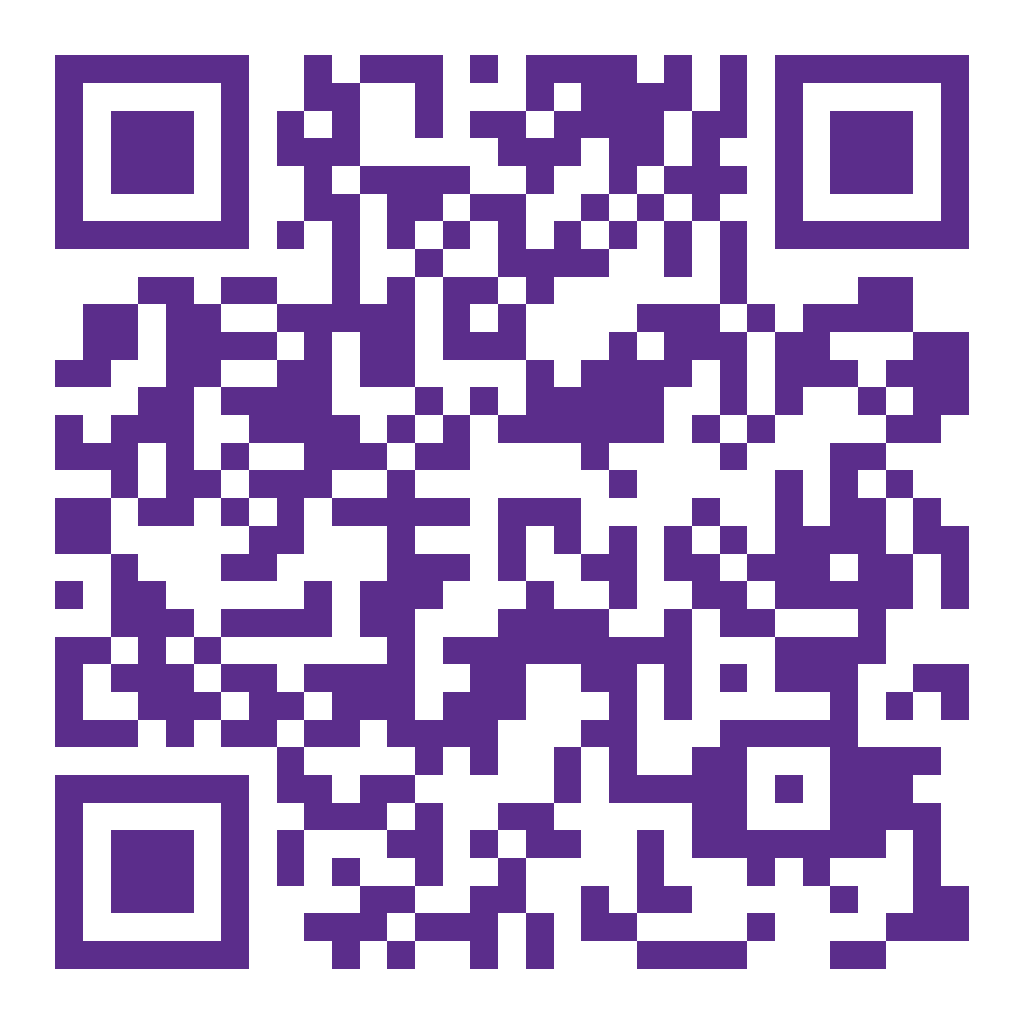
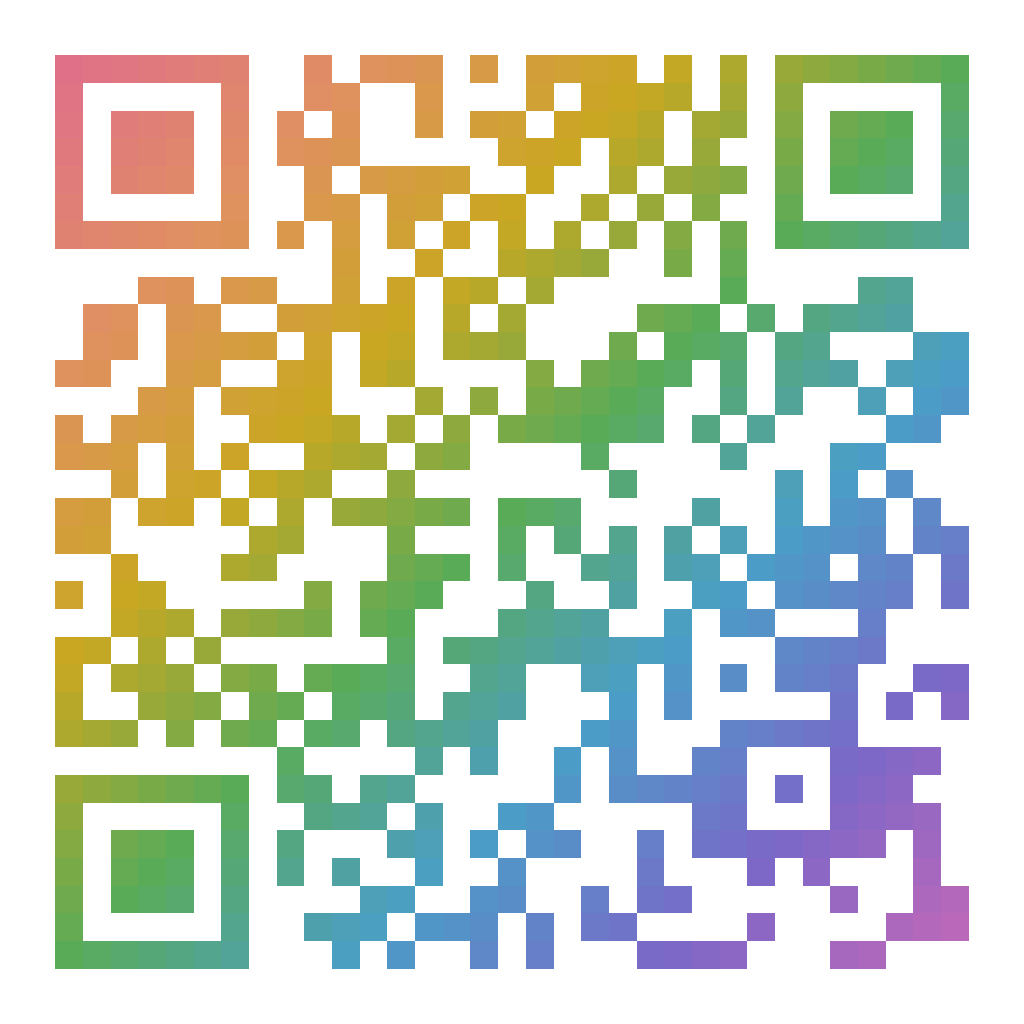
fix(qr): regenboog op Corri Arts, algemeen zwart
General /zones QR is black; pastel rainbow moves to zone 11 (Corri Arts).

diff --git a/components/admin/AdminQr.tsx b/components/admin/AdminQr.tsx
@@ -6,8 +6,9 @@ import { getZones } from '@/lib/database'
 import type { Zone } from '@/types'
 
 const SITE = 'https://corridor.gent'
+const CORRI_ARTS = 11
 
-/** Zelfde map als scripts/generate-zone-qrs.mjs */
+/** Zelfde map als scripts/generate-zone-qrs.mjs (11 = regenboog) */
 const ZONE_COLORS: Record<number, string> = {
   1: '#d62839',
   2: '#4f9a3e',
@@ -19,7 +20,6 @@ const ZONE_COLORS: Record<number, string> = {
   8: '#8b5e3c',
   9: '#2622b8',
   10: '#9aaa00',
-  11: '#5b2d8b',
   12: '#4a4a4a',
 }
 
@@ -58,20 +58,24 @@ export function AdminQr() {
       url: `${SITE}/zones`,
       png: '/qr/zones.png',
       svg: '/qr/zones.svg',
-      colorLabel: 'pastel-regenboog',
-      rainbow: true,
+      colorLabel: '#1f2937',
+      swatch: '#1f2937',
     }
     const perZone = zones.map((z) => {
-      const swatch = ZONE_COLORS[z.zone_number]
+      const isRainbow = z.zone_number === CORRI_ARTS
+      const swatch = isRainbow ? undefined : ZONE_COLORS[z.zone_number]
       return {
         id: `zone-${z.zone_number}`,
         title: `Zone ${z.zone_number}: ${z.name}`,
-        subtitle: 'Zone-detailpagina · kleur = omslag-accent',
+        subtitle: isRainbow
+          ? 'Corri Arts · pastel-regenboog'
+          : 'Zone-detailpagina · kleur = omslag-accent',
         url: `${SITE}/zones/${z.zone_number}`,
         png: `/qr/zone-${z.zone_number}.png`,
         svg: `/qr/zone-${z.zone_number}.svg`,
-        colorLabel: swatch || '—',
+        colorLabel: isRainbow ? 'pastel-regenboog' : swatch || '—',
         swatch,
+        rainbow: isRainbow,
       }
     })
     return [general, ...perZone]
@@ -84,7 +88,7 @@ export function AdminQr() {
   return (
     <div>
       <p className="mb-6 text-center text-gray-600">
-        Printklare QR-codes: per zone in omslagkleur, algemeen in pastel-regenboog. PNG + SVG.
+        Printklare QR-codes: algemeen zwart, zones in omslagkleur, Corri Arts in pastel-regenboog.
       </p>
       <div className="mb-8 rounded-3xl bg-white/60 p-4 text-center print:hidden">
         <button
@@ -104,7 +108,7 @@ export function AdminQr() {
           >
             {/* eslint-disable-next-line @next/next/no-img-element */}
             <img
-              src={`${item.svg}?v=color`}
+              src={`${item.svg}?v=corri-rainbow`}
               alt={`QR ${item.title}`}
               className="mb-4 h-48 w-48 rounded-2xl border border-pink-100 bg-white p-2"
             />

diff --git a/public/qr/README.md b/public/qr/README.md
@@ -4,7 +4,8 @@ Gegenereerd met `npm run generate:qr` (`scripts/generate-zone-qrs.mjs`).
 
 | Bestand | URL | Kleur |
 |---------|-----|-------|
-| `zones.png` / `.svg` | https://corridor.gent/zones | pastel-regenboog |
-| `zone-1` … `zone-12` | https://corridor.gent/zones/1 … /12 | zone-omslag accent (zie `zone-colors.json`) |
+| `zones.png` / `.svg` | https://corridor.gent/zones | zwart |
+| `zone-1` … `zone-10`, `zone-12` | detail-URL | zone-omslag accent |
+| `zone-11` (Corri Arts) | https://corridor.gent/zones/11 | pastel-regenboog |
 
-Print-sheet: `/beheer/qr` op de live site.
+Zie `zone-colors.json`. Print-sheet: `/beheer/qr`.
